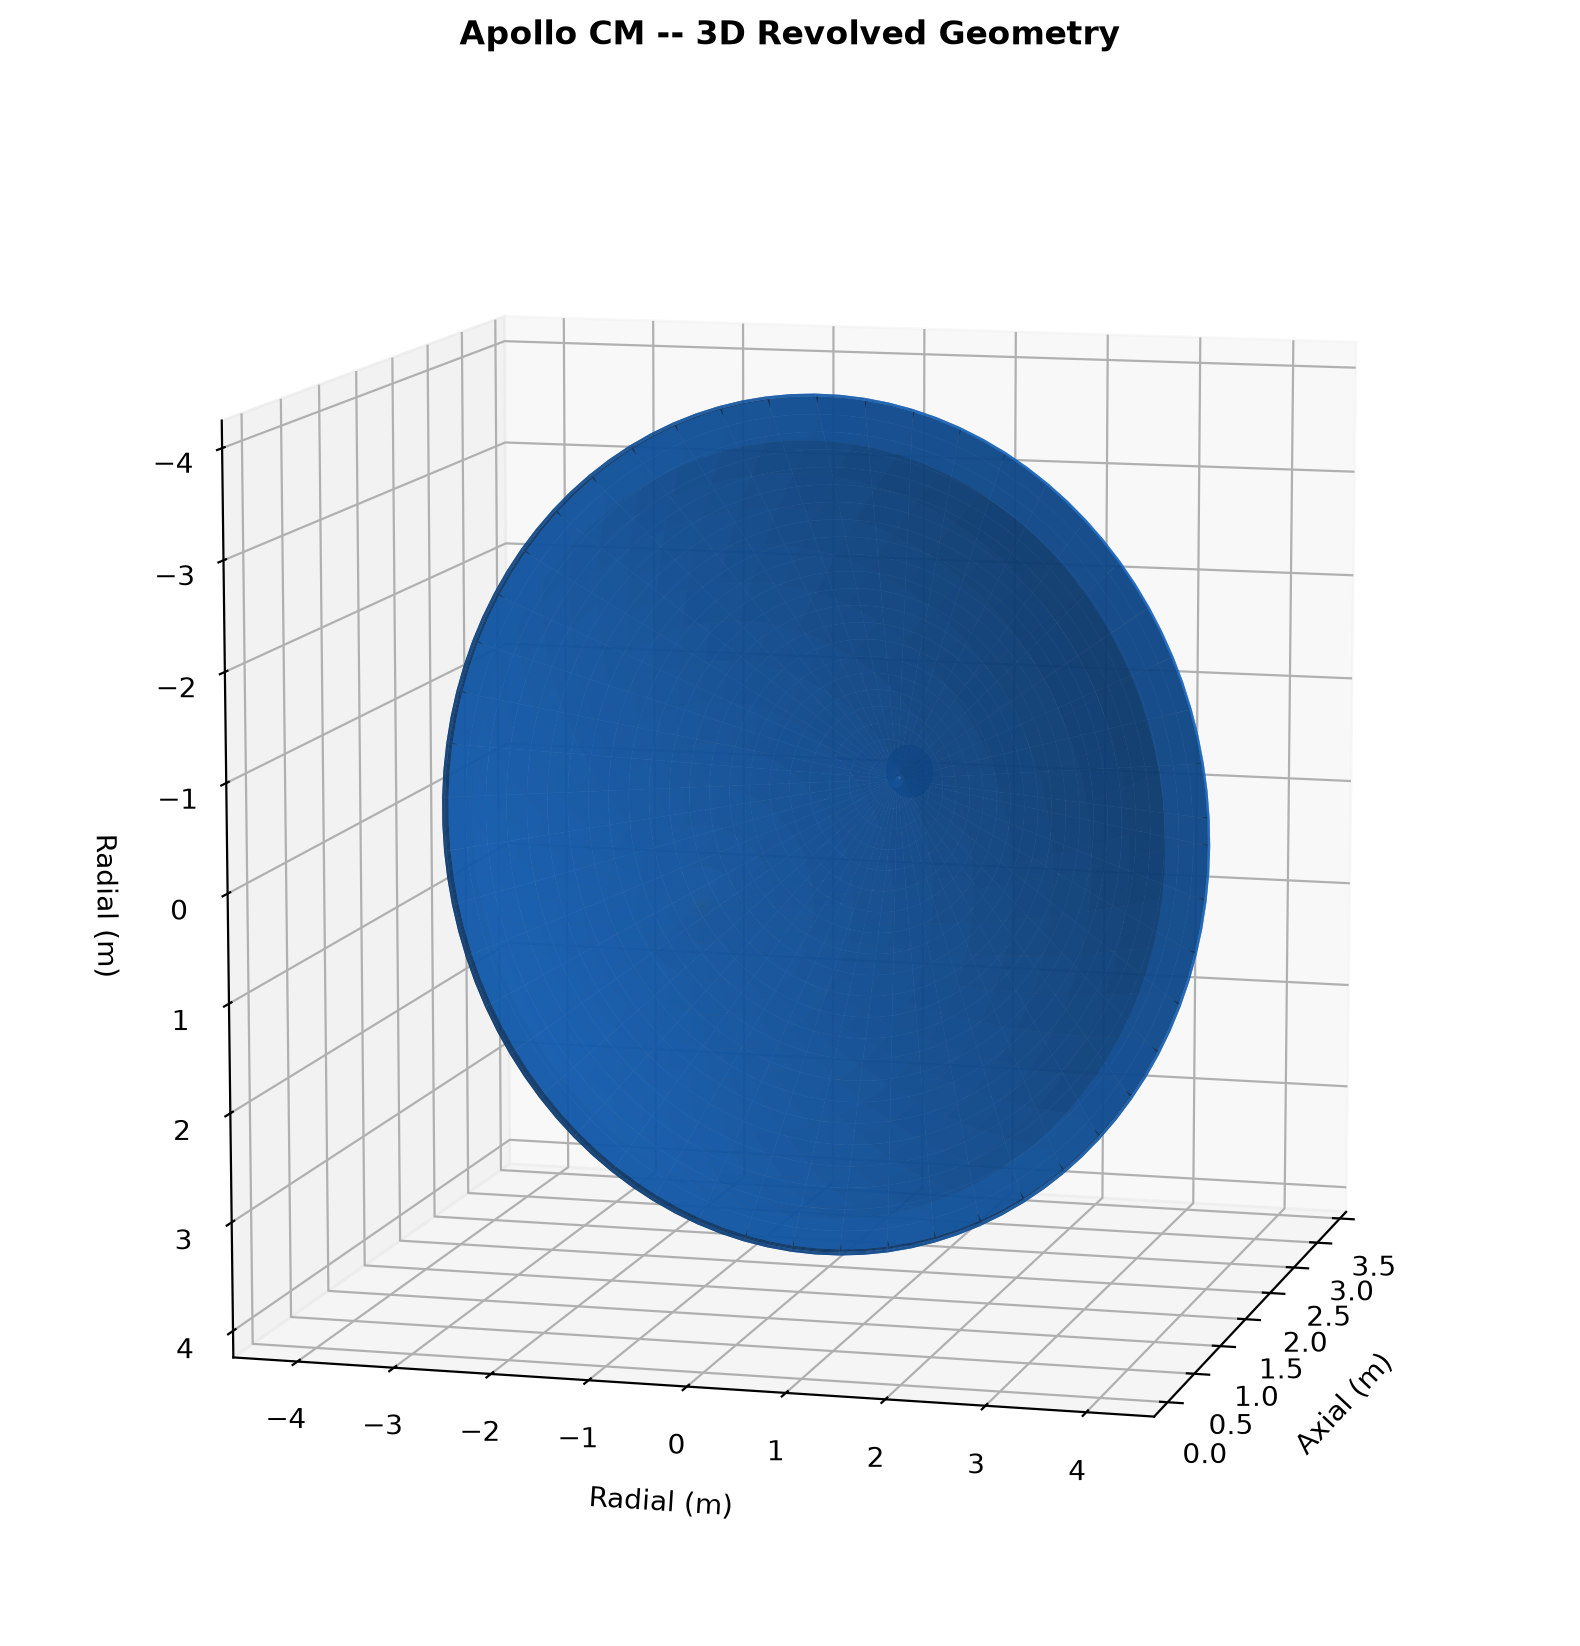
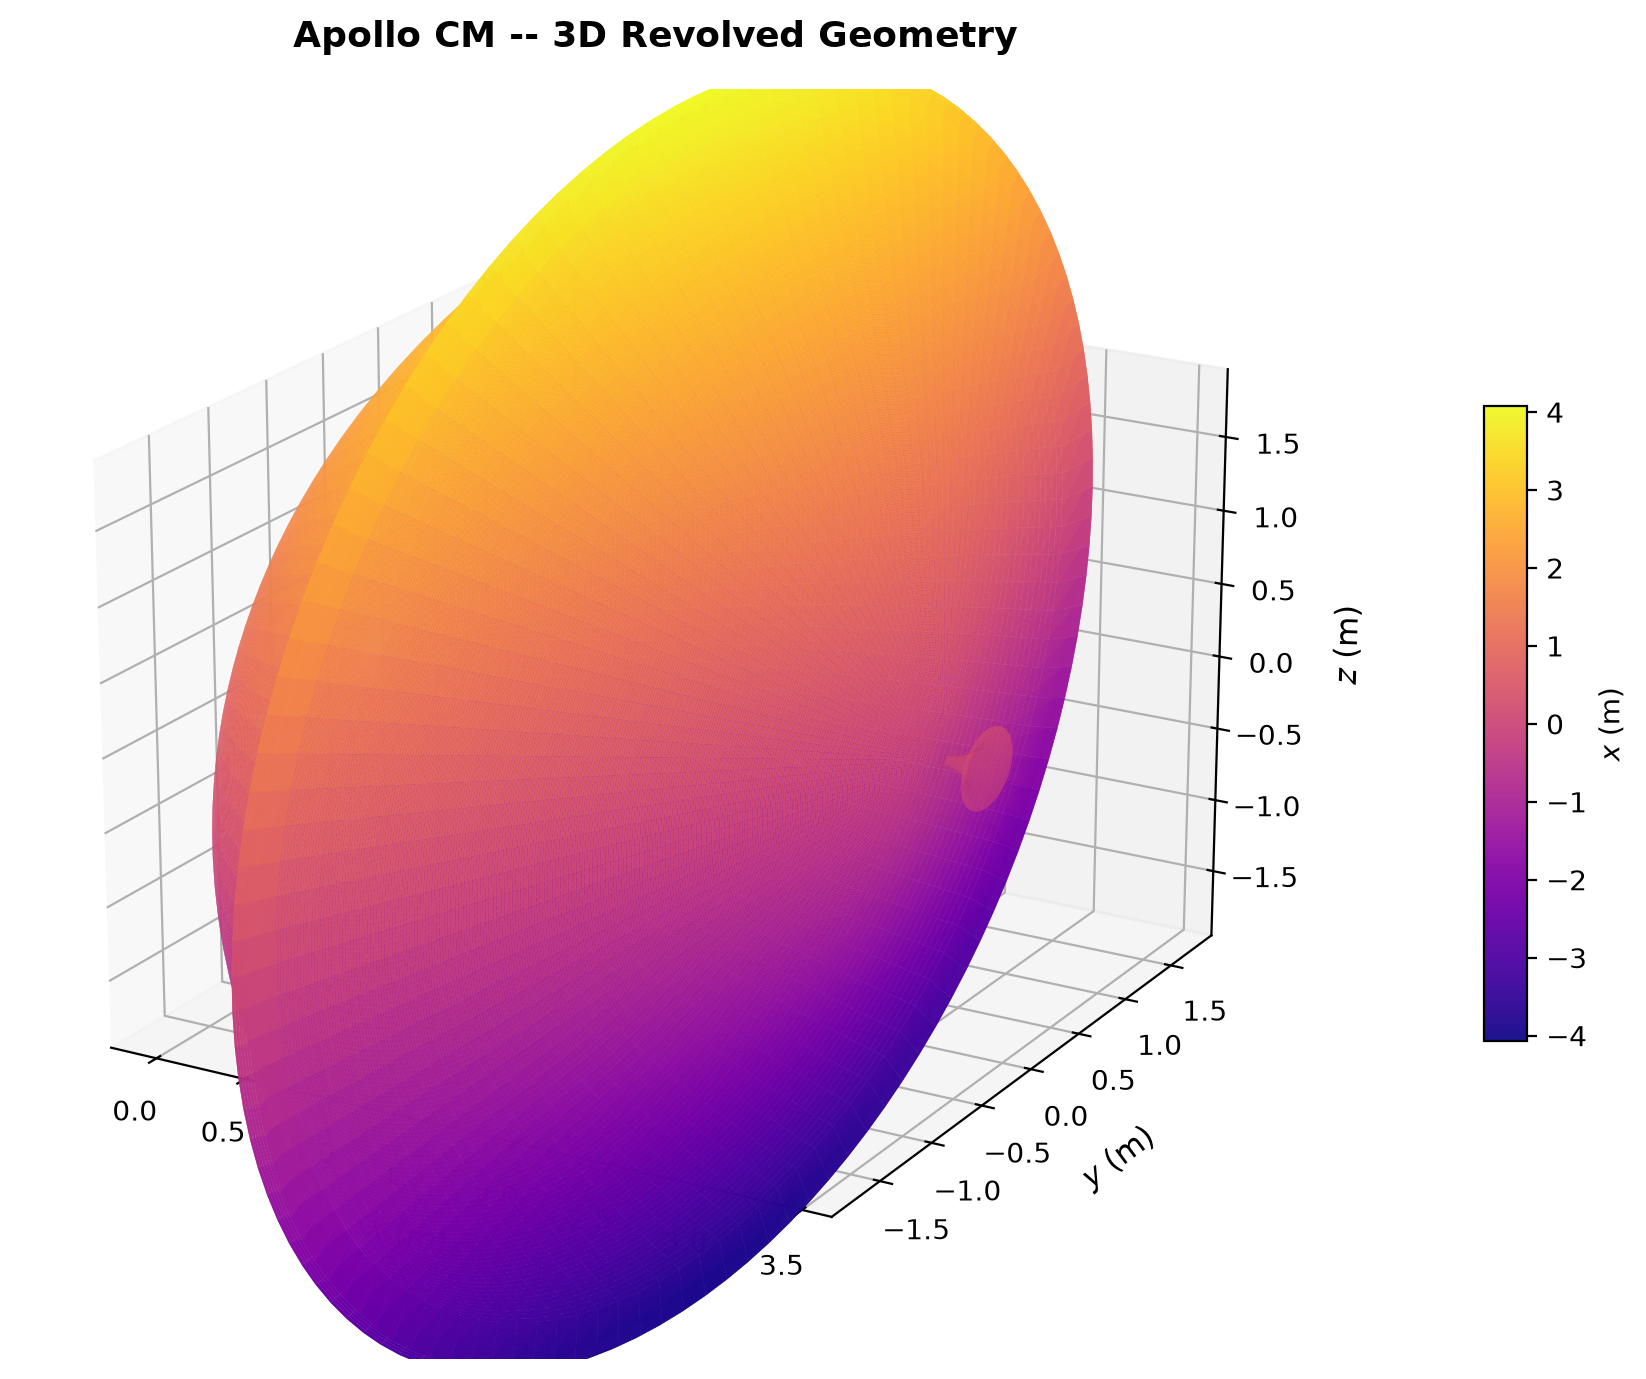
feat: update Apollo CM presets and add geometry plotting script
- Update max_radius to 1.956 and body_length to 3.392 (DXF-verified)
- Add 2D and 3D geometry plots for Apollo command module
- Add plot_apollo_geometry.py script for geometry visualization

diff --git a/scripts/plot_apollo_geometry.py b/scripts/plot_apollo_geometry.py
@@ -1,0 +1,308 @@
+"""Generate publication-quality geometry plots for the Apollo CM."""
+
+import math
+import sys
+from pathlib import Path
+
+import matplotlib
+matplotlib.use("Agg")
+import matplotlib.pyplot as plt
+import numpy as np
+
+# Ensure project root is on path
+sys.path.insert(0, str(Path(__file__).resolve().parent.parent / "src"))
+
+from geometry.presets import apollo_cm
+from geometry.blunt_body import generate_contour
+
+
+def identify_sections(config):
+    """Return index ranges for each body section in the contour."""
+    if config.R_fillet > 0:
+        n_sphere = int(config.num_points * 0.25)
+        n_fillet = int(config.num_points * 0.15)
+        n_cone = int(config.num_points * 0.45)
+        Rbf = config.base_fillet_radius
+        if Rbf > 0:
+            n_base_fillet = config.num_points - n_sphere - n_fillet - n_cone
+        else:
+            n_base_fillet = 0
+            n_cone = config.num_points - n_sphere - n_fillet
+        return {
+            "sphere": (0, n_sphere),
+            "fillet": (n_sphere, n_sphere + n_fillet),
+            "cone": (n_sphere + n_fillet, n_sphere + n_fillet + n_cone),
+            "base_fillet": (
+                n_sphere + n_fillet + n_cone,
+                n_sphere + n_fillet + n_cone + n_base_fillet,
+            ),
+        }
+    else:
+        n_sphere = int(config.num_points * 0.4)
+        Rbf = config.base_fillet_radius
+        if Rbf > 0:
+            n_cone = int(config.num_points * 0.45)
+            n_base_fillet = config.num_points - n_sphere - n_cone
+        else:
+            n_cone = config.num_points - n_sphere
+            n_base_fillet = 0
+        return {
+            "sphere": (0, n_sphere),
+            "fillet": (n_sphere, n_sphere),  # empty
+            "cone": (n_sphere, n_sphere + n_cone),
+            "base_fillet": (n_sphere + n_cone, n_sphere + n_cone + n_base_fillet),
+        }
+
+
+def compute_section_boundaries(config, sections):
+    """Compute junction x/r coordinates for each section boundary."""
+    R = config.R_shield
+    Rf = config.R_fillet
+    theta = config.half_angle_rad
+    max_r = config.max_radius
+    Rbf = config.base_fillet_radius
+
+    if Rf > 0:
+        # Sphere-fillet junction
+        cos_phi = (R + Rf - max_r) / (R + Rf)
+        phi_sf = math.acos(max(-1.0, min(1.0, cos_phi)))
+        x_sf = R * (1.0 - math.cos(phi_sf))
+        r_sf = R * math.sin(phi_sf)
+
+        # Fillet center
+        x_f = R - (R + Rf) * math.cos(phi_sf)
+        r_f = (R + Rf) * math.sin(phi_sf)
+
+        # Fillet-cone junction
+        x_tc = x_f + Rf * math.sin(theta)
+        r_tc = r_f + Rf * math.cos(theta)
+
+        return {
+            "nose": (0.0, 0.0),
+            "sphere_fillet": (x_sf, r_sf),
+            "fillet_cone": (x_tc, r_tc),
+            "base": (config.computed_body_length, config.base_radius),
+        }
+    else:
+        phi_j = math.asin(max_r / R)
+        x_j = R * (1.0 - math.cos(phi_j))
+        r_j = R * math.sin(phi_j)
+        return {
+            "nose": (0.0, 0.0),
+            "sphere_cone": (x_j, r_j),
+            "base": (config.computed_body_length, config.base_radius),
+        }
+
+
+def plot_2d_geometry(config, x, r, sections, boundaries, out_path):
+    """Create publication-quality 2D geometry plot with annotations."""
+    fig, ax = plt.subplots(1, 1, figsize=(10, 5))
+    fig.patch.set_facecolor("white")
+    ax.set_facecolor("white")
+
+    # Unpack section ranges
+    i_sph = slice(*sections["sphere"])
+    i_fil = slice(*sections["fillet"])
+    i_con = slice(*sections["cone"])
+    i_bf = slice(*sections["base_fillet"])
+
+    # Plot color-coded upper profile
+    ax.plot(x[i_sph], r[i_sph], color="#2563EB", linewidth=2.2, label="Spherical heat shield")
+    if sections["fillet"][1] > sections["fillet"][0]:
+        ax.plot(x[i_fil], r[i_fil], color="#7C3AED", linewidth=2.2, label="Shoulder fillet")
+    ax.plot(x[i_con], r[i_con], color="#F97316", linewidth=2.2, label="Conical afterbody")
+    if sections["base_fillet"][1] > sections["base_fillet"][0]:
+        ax.plot(x[i_bf], r[i_bf], color="#DC2626", linewidth=2.2, label="Base fillet")
+
+    # Mirror below axis
+    ax.plot(x[i_sph], -r[i_sph], color="#2563EB", linewidth=2.2)
+    if sections["fillet"][1] > sections["fillet"][0]:
+        ax.plot(x[i_fil], -r[i_fil], color="#7C3AED", linewidth=2.2)
+    ax.plot(x[i_con], -r[i_con], color="#F97316", linewidth=2.2)
+    if sections["base_fillet"][1] > sections["base_fillet"][0]:
+        ax.plot(x[i_bf], -r[i_bf], color="#DC2626", linewidth=2.2)
+
+    # Symmetry axis
+    ax.axhline(0, color="gray", linewidth=0.5, linestyle="--", alpha=0.5)
+
+    # Junction markers
+    for name, (jx, jr) in boundaries.items():
+        if name == "nose":
+            continue
+        ax.plot(jx, jr, "ko", markersize=5, zorder=5)
+        ax.plot(jx, -jr, "ko", markersize=5, zorder=5)
+
+    # --- Dimension annotations ---
+    L = config.computed_body_length
+    R_shield = config.R_shield
+    max_r = config.max_radius
+    R_base = config.base_radius
+    theta_deg = config.cone_half_angle
+
+    # R_shield: arrow from sphere center to surface
+    # Sphere center is at (R_shield, 0) for concave sphere
+    sph_center_x = R_shield
+    # Mark sphere center
+    ax.plot(sph_center_x, 0, "b+", markersize=10, markeredgewidth=1.5, zorder=5)
+    # Arrow from center to a point on the sphere (e.g., at 60% of sphere arc)
+    phi_ann = 0.6 * math.asin(max_r / R_shield)
+    x_ann = R_shield * (1.0 - math.cos(phi_ann))
+    r_ann = R_shield * math.sin(phi_ann)
+    ax.annotate(
+        "", xy=(x_ann, r_ann), xytext=(sph_center_x, 0),
+        arrowprops=dict(arrowstyle="<->", color="#2563EB", lw=1.5),
+    )
+    ax.text(
+        (x_ann + sph_center_x) / 2 - 0.15, r_ann / 2 + 0.05,
+        f"$R_{{shield}}$ = {R_shield:.3f} m",
+        fontsize=10, color="#2563EB", fontweight="bold",
+        bbox=dict(boxstyle="round,pad=0.3", facecolor="white", edgecolor="#2563EB", alpha=0.9),
+    )
+
+    # R_max: horizontal line at max radius
+    ax.annotate(
+        "", xy=(0, max_r), xytext=(0, 0),
+        arrowprops=dict(arrowstyle="<->", color="#10B981", lw=1.5),
+    )
+    ax.text(
+        -0.08, max_r / 2,
+        f"$R_{{max}}$ = {max_r:.3f} m",
+        fontsize=10, color="#10B981", fontweight="bold", rotation=90,
+        ha="right", va="center",
+        bbox=dict(boxstyle="round,pad=0.3", facecolor="white", edgecolor="#10B981", alpha=0.9),
+    )
+
+    # R_base: horizontal line at base
+    ax.annotate(
+        "", xy=(L, R_base), xytext=(L, 0),
+        arrowprops=dict(arrowstyle="<->", color="#DC2626", lw=1.5),
+    )
+    ax.text(
+        L + 0.03, R_base / 2,
+        f"$R_{{base}}$ = {R_base:.3f} m",
+        fontsize=9, color="#DC2626", fontweight="bold", rotation=90,
+        ha="left", va="center",
+        bbox=dict(boxstyle="round,pad=0.3", facecolor="white", edgecolor="#DC2626", alpha=0.9),
+    )
+
+    # L: horizontal dimension at bottom
+    y_dim = -max_r - 0.15
+    ax.annotate(
+        "", xy=(L, y_dim), xytext=(0, y_dim),
+        arrowprops=dict(arrowstyle="<->", color="#6B7280", lw=1.5),
+    )
+    ax.text(
+        L / 2, y_dim - 0.08,
+        f"$L$ = {L:.3f} m",
+        fontsize=10, color="#6B7280", fontweight="bold",
+        ha="center", va="top",
+        bbox=dict(boxstyle="round,pad=0.3", facecolor="white", edgecolor="#6B7280", alpha=0.9),
+    )
+
+    # theta: cone half-angle arc at fillet-cone junction
+    if "fillet_cone" in boundaries:
+        jx, jr = boundaries["fillet_cone"]
+    elif "sphere_cone" in boundaries:
+        jx, jr = boundaries["sphere_cone"]
+    else:
+        jx, jr = boundaries.get("sphere_fillet", (0, 0))
+
+    # Draw angle arc
+    arc_r = 0.25
+    theta_rad = math.radians(theta_deg)
+    arc_phi = np.linspace(-theta_rad / 2, theta_rad / 2, 40)
+    # The cone starts at the junction; angle is measured from the cone axis
+    # Place the arc at the junction, showing the cone opening
+    arc_x = jx + arc_r * np.cos(np.linspace(math.pi - theta_rad, math.pi, 40))
+    arc_y = jr + arc_r * np.sin(np.linspace(math.pi - theta_rad, math.pi, 40))
+    ax.plot(arc_x, arc_y, color="#F97316", linewidth=1.5)
+    # Label
+    ax.text(
+        jx - 0.12, jr + 0.12,
+        f"$\\theta$ = {theta_deg:.0f}$^\\circ$",
+        fontsize=10, color="#F97316", fontweight="bold",
+        bbox=dict(boxstyle="round,pad=0.3", facecolor="white", edgecolor="#F97316", alpha=0.9),
+    )
+
+    # Formatting
+    ax.set_xlabel("Axial coordinate $x$ (m)", fontsize=12)
+    ax.set_ylabel("Radial coordinate $r$ (m)", fontsize=12)
+    ax.set_title("Apollo Command Module -- DXF-Verified Geometry", fontsize=13, fontweight="bold")
+    ax.set_aspect("equal")
+    ax.legend(loc="upper right", fontsize=9, framealpha=0.95)
+    ax.grid(True, alpha=0.2)
+    ax.set_xlim(-0.2, L + 0.5)
+    ax.set_ylim(-max_r - 0.45, max_r + 0.35)
+
+    fig.tight_layout()
+    fig.savefig(out_path, dpi=200, bbox_inches="tight", facecolor="white")
+    plt.close(fig)
+    print(f"Saved 2D plot: {out_path}")
+
+
+def plot_3d_geometry(config, x, r, sections, out_path):
+    """Create 3D revolved surface plot with plasma colormap."""
+    fig = plt.figure(figsize=(10, 7))
+    fig.patch.set_facecolor("white")
+    ax = fig.add_subplot(111, projection="3d")
+    fig.patch.set_facecolor("white")
+    ax.set_facecolor("white")
+
+    # Revolve around x-axis
+    theta_arr = np.linspace(0, 2 * np.pi, 120)
+    X, THETA = np.meshgrid(x, theta_arr)
+    R_mesh = np.tile(r, (len(theta_arr), 1))
+    Y = R_mesh * np.cos(THETA)
+    Z = R_mesh * np.sin(THETA)
+
+    # Plot surface
+    surf = ax.plot_surface(
+        X, Y, Z,
+        cmap="plasma",
+        linewidth=0,
+        antialiased=True,
+        alpha=0.95,
+        rstride=1,
+        cstride=1,
+    )
+
+    # Formatting
+    ax.set_xlabel("$x$ (m)", fontsize=11, labelpad=8)
+    ax.set_ylabel("$y$ (m)", fontsize=11, labelpad=8)
+    ax.set_zlabel("$z$ (m)", fontsize=11, labelpad=8)
+    ax.set_title("Apollo CM -- 3D Revolved Geometry", fontsize=13, fontweight="bold", pad=15)
+
+    # Equal aspect
+    max_range = max(config.computed_body_length, 2 * config.max_radius) / 2
+    mid_x = config.computed_body_length / 2
+    ax.set_xlim(mid_x - max_range, mid_x + max_range)
+    ax.set_ylim(-max_range, max_range)
+    ax.set_zlim(-max_range, max_range)
+
+    fig.colorbar(surf, ax=ax, shrink=0.5, aspect=15, label="$x$ (m)", pad=0.1)
+
+    # View angle
+    ax.view_init(elev=20, azim=-60)
+
+    fig.tight_layout()
+    fig.savefig(out_path, dpi=200, bbox_inches="tight", facecolor="white")
+    plt.close(fig)
+    print(f"Saved 3D plot: {out_path}")
+
+
+def main():
+    config = apollo_cm()
+    x, r = generate_contour(config)
+
+    sections = identify_sections(config)
+    boundaries = compute_section_boundaries(config, sections)
+
+    out_dir = Path(__file__).resolve().parent.parent / "docs" / "assets" / "images" / "apollo-cm"
+    out_dir.mkdir(parents=True, exist_ok=True)
+
+    plot_2d_geometry(config, x, r, sections, boundaries, out_dir / "geometry.png")
+    plot_3d_geometry(config, x, r, sections, out_dir / "body_3d.png")
+
+
+if __name__ == "__main__":
+    main()

diff --git a/src/geometry/presets.py b/src/geometry/presets.py
@@ -8,11 +8,11 @@ from .config import BluntBodyConfig
 def apollo_cm() -> BluntBodyConfig:
     """Apollo Command Module blunt body geometry.
 
-    Source: NASA TN D-6028 (1970), NASA TM-2006-214372.
+    Source: NASA AS-202, DXF-verified dimensions.
     Concave spherical heat shield (R=4.694m) + 33-deg conical afterbody.
-    Max diameter 3.91m (radius 1.955m).
+    Max diameter 3.912m (radius 1.956m).
     Junction fillet R=0.196m (7.7 in), base fillet R=0.231m (9.1 in).
-    Total axial length: 3.391m (133.5 in).
+    Total axial length: 3.392m (133.5 in).
 
     Sphere center is at (R, 0) = (4.694, 0) on the axis, ahead of the nose.
     The heat shield is a concave spherical dish curving inward from the nose.
@@ -24,10 +24,10 @@ def apollo_cm() -> BluntBodyConfig:
         R_shield=4.694,
         R_fillet=0.196,
         cone_half_angle=33.0,
-        max_radius=1.955,
+        max_radius=1.956,
         base_radius=0.03,
         base_fillet_radius=0.231,
-        body_length=3.391,
+        body_length=3.392,
         num_points=600,
     )
 
